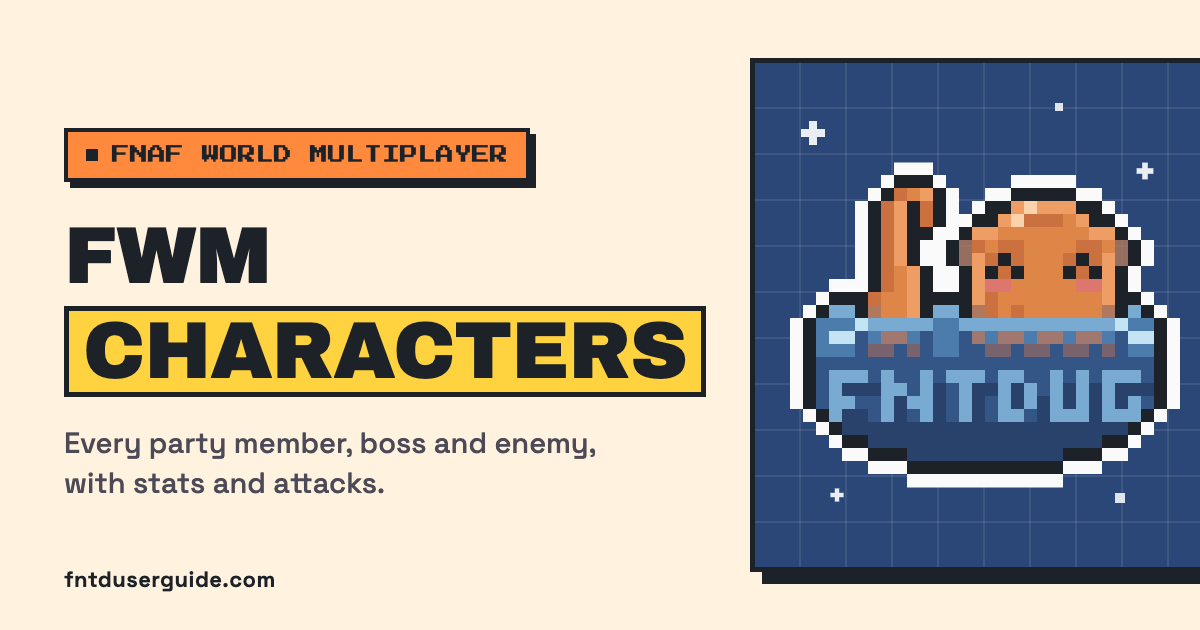
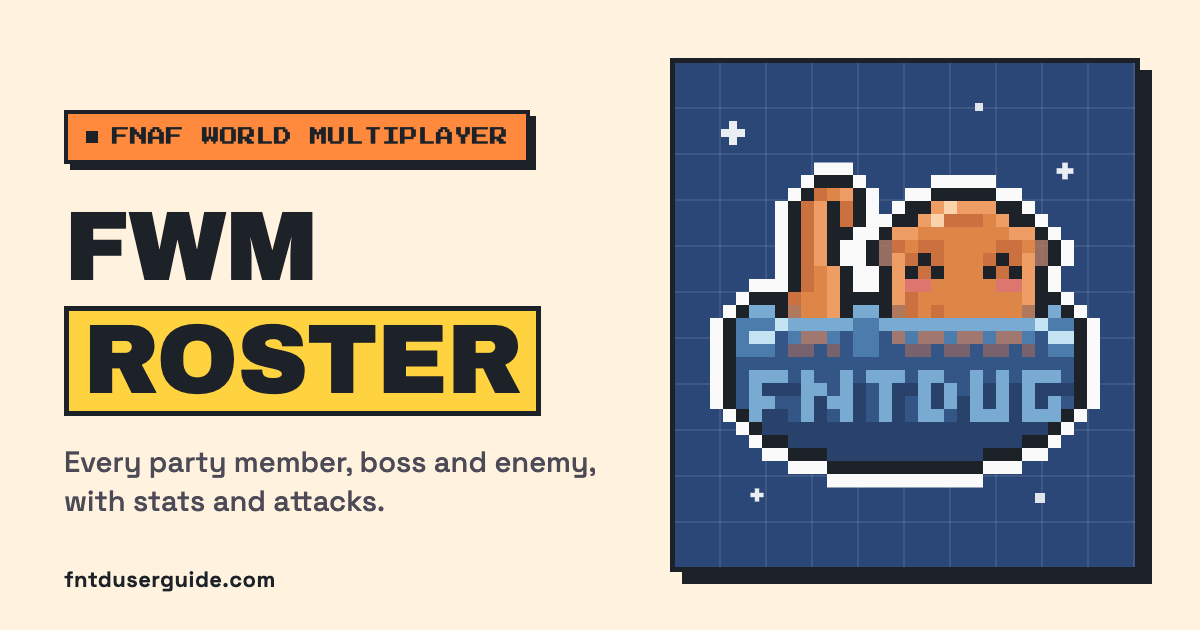
Rename the FWM page to Roster and give it an FWM header
Moves the page to /fwm/roster, renames it Roster in the nav, title, SEO
and share image, and adds FWM to the overhaul sections so its header tag
reads FNaF World Multiplayer like the other games. Bumps the share image
version so cached previews refresh.

diff --git a/fwm/roster.html b/fwm/roster.html
@@ -3,7 +3,7 @@
 <head>
   <meta charset="UTF-8">
   <meta name="viewport" content="width=device-width, initial-scale=1.0">
-  <title>FNaF World Multiplayer Characters | FNTD User Guide</title>
+  <title>FNaF World Multiplayer Roster | FNTD User Guide</title>
   <link rel="icon" type="image/png" href="https://primary.jwwb.nl/public/g/h/p/temp-xkzspsgvvlzquzykopjj/circle_done-high-hapj13.png?enable-io=true&enable=upscale&height=70">
   <link href="https://fonts.googleapis.com/css2?family=Press+Start+2P&family=Audiowide&display=swap" rel="stylesheet">
   <style>*,*::before,*::after{box-sizing:border-box;margin:0;padding:0;overflow-wrap:break-word;-webkit-font-smoothing:antialiased;-moz-osx-font-smoothing:grayscale}:root{--ug-accent:#ffa45b;--ug-purple:#681f62}html,body{min-height:100vh;background-color:#07060f;color:#fff;font-family:'Franklin Gothic Medium','Franklin Gothic','ITC Franklin Gothic',Arial,sans-serif;font-size:16px;scrollbar-width:thin;scrollbar-color:rgba(255,164,91,.4) transparent;-webkit-text-size-adjust:100%;text-size-adjust:100%;-webkit-font-smoothing:antialiased;-moz-osx-font-smoothing:grayscale}html{font-size:10px}body::-webkit-scrollbar{width:6px}body::-webkit-scrollbar-thumb{background:rgba(255,164,91,.4);border-radius:3px}#ug-main{min-height:100vh;display:flex;flex-direction:column;background-image:url('https://images.fntduserguide.com/952b91dc-d51b-434a-bee1-591d5d60126a.jpg');background-size:cover;background-attachment:fixed;background-position:center;background-color:#0a0c1e}#ug-header{position:relative;background:linear-gradient(180deg,#120326 0%,#3a0a38 30%,#681f62 55%,#3a0a38 78%,#120326 100%);flex-shrink:0;box-shadow:0 4px 28px rgba(104,31,98,.45)}#ug-header::before{content:'';position:absolute;inset:0;pointer-events:none;background:repeating-linear-gradient(to bottom,transparent 0px,transparent 3px,rgba(0,0,0,.07) 3px,rgba(0,0,0,.07) 4px)}.ug-header-inner{position:relative;z-index:1;text-align:center;display:flex;flex-direction:column;align-items:center;gap:12px;padding:30px 20px 22px}.ug-header-logo{width:68px;height:68px;object-fit:contain;filter:drop-shadow(0 0 12px rgba(255,164,91,.6))}.ug-header-title{font-family:'Audiowide',sans-serif;font-size:28px;color:#fff;text-shadow:0 0 12px rgba(255,164,91,.55),0 0 30px rgba(104,31,98,.4);letter-spacing:2px}#ug-topnav{position:sticky;top:0;z-index:1000}.ug-tn-inner{max-width:1100px;margin:0 auto;display:flex;align-items:stretch;justify-content:center;padding:0 12px;overflow-x:auto;-webkit-overflow-scrolling:touch;scrollbar-width:none;flex-wrap:wrap}.ug-tn-inner::-webkit-scrollbar{display:none}.ug-tn-link{display:flex;align-items:center;padding:14px 17px;color:rgba(255,255,255,.65);font-size:13px;font-family:'Audiowide',sans-serif;text-decoration:none;white-space:nowrap;transition:color .15s,background .15s}.ug-tn-link:hover{color:var(--ug-accent);background:rgba(255,164,91,.07)}.ug-tn-link.active{color:var(--ug-accent)}.ug-tn-drop a.active::after,.ug-tn-link.active::after,.ug-mn-child.active::after,.ug-mn-link.active::after{content:"|";margin-left:4px;color:var(--ug-accent);font-weight:400}body.ug-cursor-off .ug-tn-drop a.active::after,body.ug-cursor-off .ug-tn-link.active::after,body.ug-cursor-off .ug-mn-child.active::after,body.ug-cursor-off .ug-mn-link.active::after{opacity:0}.ug-tn-item{position:relative;display:flex;align-items:stretch}.ug-tn-btn{display:flex;align-items:center;gap:5px;padding:14px 17px;color:rgba(255,255,255,.65);font-size:13px;background:none;border:none;font-family:'Audiowide',sans-serif;cursor:pointer;white-space:nowrap;transition:color .15s,background .15s}.ug-tn-btn:hover,.ug-tn-item.open>.ug-tn-btn{color:var(--ug-accent);background:rgba(255,164,91,.07)}.ug-tn-arrow{display:inline-block;font-size:13px;font-family:monospace,Arial;font-style:normal;opacity:.55;transition:opacity .12s,color .12s;min-width:.8em;text-align:center}.ug-tn-item.open .ug-tn-arrow{opacity:1;color:var(--ug-accent)}.ug-tn-drop{display:none;position:fixed;width:max-content;min-width:185px;background:rgba(7,4,18,.97);border:1px solid rgba(255,164,91,.2);border-top:2px solid var(--ug-accent);border-radius:0 0 8px 8px;box-shadow:0 10px 30px rgba(0,0,0,.8);z-index:9999}.ug-tn-drop a{display:block;padding:11px 18px;color:rgba(255,255,255,.6);font-size:12px;text-decoration:none;border-bottom:1px solid rgba(255,164,91,.07);font-family:'Audiowide',sans-serif;transition:background .11s,color .11s}.ug-tn-drop a:last-child{border-bottom:none}.ug-tn-drop a:hover{background:rgba(255,255,255,.06);color:#fff}.ug-tn-drop a.active{background:rgba(255,164,91,.08);color:var(--ug-accent)}#ug-hamburger{display:none;position:fixed;top:11px;right:12px;z-index:1200;background:linear-gradient(135deg,rgba(58,10,56,.95),rgba(18,3,38,.95));border:1px solid rgba(255,164,91,.45);border-radius:22px;padding:7px 13px 7px 10px;cursor:pointer;color:rgba(255,255,255,.9);font-family:'Audiowide',sans-serif;font-size:10px;letter-spacing:.4px;align-items:center;gap:6px;transition:background .15s,border-color .15s,box-shadow .15s;box-shadow:0 2px 14px rgba(0,0,0,.6),0 0 0 1px rgba(104,31,98,.3);backdrop-filter:blur(8px);-webkit-backdrop-filter:blur(8px)}#ug-hamburger .hmb-icon{font-size:16px;line-height:1}#ug-overlay{display:none;position:fixed;inset:0;background:rgba(0,0,0,.62);z-index:1099;backdrop-filter:blur(3px);-webkit-backdrop-filter:blur(3px)}#ug-overlay.open{display:block}#ug-mobile-nav{position:fixed;top:0;right:0;width:min(290px,88vw);height:100vh;background:linear-gradient(180deg,#0d0120 0%,#070110 100%);border-left:1px solid rgba(255,164,91,.12);z-index:1100;overflow-y:auto;transform:translateX(100%);transition:transform .3s cubic-bezier(.4,0,.2,1);display:flex;flex-direction:column;box-shadow:-6px 0 40px rgba(0,0,0,.9);scrollbar-width:thin;scrollbar-color:rgba(255,164,91,.2) transparent}#ug-mobile-nav::-webkit-scrollbar{width:3px}#ug-mobile-nav::-webkit-scrollbar-thumb{background:rgba(255,164,91,.25);border-radius:2px}#ug-mobile-nav.open{transform:translateX(0)}.ug-mn-header{display:flex;align-items:center;justify-content:space-between;padding:14px 14px 13px;background:linear-gradient(180deg,#120326 0%,#3a0a38 65%,#1c0430 100%);border-bottom:1px solid rgba(255,164,91,.22);flex-shrink:0}.ug-mn-brand{display:flex;align-items:center;gap:10px}.ug-mn-brand-logo{width:30px;height:30px;object-fit:contain;filter:drop-shadow(0 0 6px rgba(255,164,91,.45))}.ug-mn-brand-name{font-family:'Audiowide',sans-serif;font-size:12px;color:#fff;line-height:1.2}.ug-mn-close{background:rgba(255,255,255,.06);border:1px solid rgba(255,255,255,.1);border-radius:50%;width:28px;height:28px;display:flex;align-items:center;justify-content:center;color:rgba(255,255,255,.5);font-size:14px;cursor:pointer;flex-shrink:0;line-height:1;transition:background .13s,color .13s,border-color .13s}.ug-mn-close:hover{background:rgba(255,164,91,.12);color:var(--ug-accent);border-color:rgba(255,164,91,.35)}.ug-mn-body{flex:1;padding:6px 0 12px}.ug-mn-link{display:flex;align-items:center;padding:12px 18px;color:rgba(255,255,255,.7);font-family:'Audiowide',sans-serif;font-size:10.5px;letter-spacing:.3px;text-decoration:none;border-bottom:1px solid rgba(255,255,255,.05);transition:background .12s,color .12s}.ug-mn-link:hover{background:rgba(255,164,91,.06);color:var(--ug-accent)}.ug-mn-link.active{color:var(--ug-accent)}.ug-mn-section{border-bottom:1px solid rgba(255,255,255,.05)}.ug-mn-section-btn{display:flex;align-items:center;justify-content:space-between;width:100%;padding:11px 18px;background:none;border:none;color:rgba(255,164,91,.85);font-family:'Audiowide',sans-serif;font-size:9.5px;letter-spacing:1.2px;text-transform:uppercase;cursor:pointer;text-align:left;transition:background .12s,color .12s}.ug-mn-section-arrow{opacity:.55;font-size:13px;flex-shrink:0;font-family:monospace,Arial;font-style:normal;min-width:.8em;text-align:center;transition:opacity .12s,color .12s}.ug-mn-section.open .ug-mn-section-btn .ug-mn-section-arrow{opacity:1;color:var(--ug-accent)}.ug-mn-section-items{max-height:0;overflow:hidden;transition:max-height .28s ease;background:rgba(0,0,0,.22)}.ug-mn-section.open .ug-mn-section-items{max-height:600px}.ug-mn-child{display:block;padding:9px 18px 9px 28px;color:rgba(255,255,255,.5);font-family:'Audiowide',sans-serif;font-size:10px;letter-spacing:.2px;text-decoration:none;border-bottom:1px solid rgba(255,255,255,.03);transition:background .11s,color .11s}.ug-mn-child:last-child{border-bottom:none}.ug-mn-child:hover{background:rgba(255,164,91,.05);color:#fff}.ug-mn-child.active{color:var(--ug-accent);background:rgba(255,164,91,.07);border-left:2px solid var(--ug-accent);padding-left:26px}.ug-mn-discord-wrap{padding:14px 14px 4px}.ug-mn-discord{display:flex;align-items:center;gap:9px;padding:11px 14px;background:rgba(88,101,242,.11);border:1px solid rgba(88,101,242,.28);border-radius:9px;color:#a5aaff;font-family:'Audiowide',sans-serif;font-size:10.5px;text-decoration:none;letter-spacing:.3px;transition:background .13s,border-color .13s,color .13s}.ug-mn-discord:hover{background:rgba(88,101,242,.22);border-color:rgba(88,101,242,.55);color:#bdc1ff}#ug-hero{position:relative;background-image:url('https://images.fntduserguide.com/starry1.webp');background-size:cover;background-attachment:fixed;background-position:center top}#ug-hero::before{content:'';position:absolute;inset:0;pointer-events:none;background:rgba(0,0,0,.48)}#ug-hero-inner{position:relative;z-index:1;padding:24px 18px 22px;max-width:860px;width:100%;margin:0 auto}#ug-content{flex:1;padding:22px 18px 50px;max-width:860px;width:100%;margin:0 auto}.ug-page-title-area{text-align:center;margin-bottom:18px}.ug-page-title{font-family:'Audiowide',sans-serif;font-size:32px;color:#fff;text-shadow:0 0 8px rgba(255,164,91,.35);margin-bottom:10px;text-decoration:underline;text-underline-offset:6px}.ug-status-badge{display:inline-block;padding:6px 18px;border-radius:20px;background:rgba(35,105,35,.85);border:1px solid rgba(80,190,80,.45);color:#86f786;font-size:10px;font-family:'Press Start 2P',cursive;margin-bottom:12px}.ug-page-desc{font-size:17px;color:#fff;line-height:1.75;margin-bottom:6px;text-align:center}.ug-note{font-size:16px;color:#fff;line-height:1.75;margin-bottom:16px}#ug-content img{max-width:100%;height:auto;display:block;margin:0 auto 16px}.clean-pill{display:inline-block;padding:14px;text-shadow:0 0 6px rgba(255,107,107,0.6);border-radius:20px;background:rgba(34,34,34,0.85);position:relative;overflow:hidden;border:2px solid #5a1a1a;color:#ff6b6b;font-size:14px;font-family:'Audiowide',sans-serif;cursor:pointer;user-select:none;text-align:center;box-shadow:inset 0 2px 4px rgba(255,255,255,0.08),inset 0 -4px 8px rgba(0,0,0,0.6),0 8px 0 #000,0 10px 20px rgba(0,0,0,0.5);transition:all 0.15s ease;animation:flicker 2s infinite}.clean-pill.on{border-color:#4dff88;color:#8cffb0}.clean-pill:hover{transform:translateY(2px)}.clean-pill::after{content:'';position:absolute;inset:0;border-radius:inherit;background:repeating-linear-gradient(to bottom,rgba(255,255,255,0.05) 0px,rgba(255,255,255,0.05) 1px,transparent 2px,transparent 4px);pointer-events:none;opacity:0.3}.clean-text{margin-top:14px;font-family:'Press Start 2P',cursive;font-size:10px;color:#fff;text-align:center;line-height:1.6;opacity:0.85}@keyframes flicker{0%{opacity:1}50%{opacity:0.95}100%{opacity:1}}.ad-slot{text-align:center}@media(max-width:768px){#ug-hamburger{display:flex}#ug-topnav{display:none}.ug-header-title{font-size:20px}.ug-header-logo{width:52px;height:52px}}@media(max-width:480px){.ug-page-title{font-size:22px}.ug-header-title{font-size:17px;letter-spacing:1px}}#tradeApp button{font-family:'Press Start 2P',cursive}#ug-content{max-width:1320px!important;}@media(max-width:600px){#ug-content{padding:22px 12px 50px!important;}}#ug-hamburger{z-index:2147483647!important;}#ug-overlay{z-index:2147483645!important;}#ug-mobile-nav{z-index:2147483646!important;}</style>
@@ -22,7 +22,7 @@
     </header>
     <div id="ug-hero"><div id="ug-hero-inner">
       <div class="ug-page-title-area">
-        <div class="ug-page-title">FWM Characters</div>
+        <div class="ug-page-title">FWM Roster</div>
         <div class="ug-status-badge" data-gh-file="fnafworld.json" data-gh-repo="FNTDUG/characters.json">(Up-To-Date!)</div>
         <p class="ug-page-desc" style="margin-top:8px">Every character in FNaF World Multiplayer on Roblox: all 48 party members, plus every boss, enemy and NPC. Tap one to see their stats, attacks and the world they come from.</p>
       </div>

diff --git a/_worker.js b/_worker.js
@@ -44,7 +44,7 @@ const MOBILE_NAV_BODY = `
 <div class="ug-mn-section">
   <button class="ug-mn-section-btn" onclick="ugMnToggle(this)">FWM <span class="ug-mn-section-arrow">/</span></button>
   <div class="ug-mn-section-items">
-    <a href="/fwm/characters"            class="ug-mn-child" data-nav-href="/fwm/characters">Characters</a>
+    <a href="/fwm/roster"                class="ug-mn-child" data-nav-href="/fwm/roster">Roster</a>
   </div>
 </div>
 <div class="ug-mn-section">
@@ -104,7 +104,7 @@ const DESKTOP_NAV_INNER = `
 <div class="ug-tn-item">
   <button class="ug-tn-btn" onclick="ugTnToggle(this)">FWM <span class="ug-tn-arrow">/</span></button>
   <div class="ug-tn-drop">
-    <a href="/fwm/characters"            data-nav-href="/fwm/characters">Characters</a>
+    <a href="/fwm/roster"                data-nav-href="/fwm/roster">Roster</a>
   </div>
 </div>
 <div class="ug-tn-item">
@@ -3615,8 +3615,8 @@ async function pushSend(request, env) {
 
 const SITE_URL = 'https://www.fntduserguide.com';
 const SITE_NAME = 'FNTD User Guide';
-const SEO_OG_V = 1;
-const SEO_OG_ALT = { home: 'FNTD User Guide: many guides, one hub', fntd1: 'FNTD1 Guide on the FNTD User Guide', fntd2: 'FNTD2 Guide on the FNTD User Guide', 'fntd2-codes': 'FNTD2 Codes on the FNTD User Guide', bbn: 'BBN Guide on the FNTD User Guide', 'bbn-codes': 'BBN Codes on the FNTD User Guide', fwm: 'FWM Characters on the FNTD User Guide' };
+const SEO_OG_V = 2;
+const SEO_OG_ALT = { home: 'FNTD User Guide: many guides, one hub', fntd1: 'FNTD1 Guide on the FNTD User Guide', fntd2: 'FNTD2 Guide on the FNTD User Guide', 'fntd2-codes': 'FNTD2 Codes on the FNTD User Guide', bbn: 'BBN Guide on the FNTD User Guide', 'bbn-codes': 'BBN Codes on the FNTD User Guide', fwm: 'FWM Roster on the FNTD User Guide' };
 function seoOgName(p) {
   if (p === '/fntd2/codes' || p === '/bbn/codes') return p.split('/')[1] + '-codes';
   if (p === '/patch-notes') return 'fntd2';
@@ -3632,7 +3632,7 @@ const SEO_SECTIONS = {
   fntd1: { name: 'Five Nights TD', path: '/fntd1/' },
   fntd2: { name: 'Five Nights TD 2', path: '/fntd2/fntd2-directory' },
   bbn: { name: 'Bite By Night', path: '/bbn/bite-by-night-directory' },
-  fwm: { name: 'FNaF World Multiplayer', path: '/fwm/characters' },
+  fwm: { name: 'FNaF World Multiplayer', path: '/fwm/roster' },
   'patch-notes': { name: 'Patch Notes', path: '/patch-notes' }
 };
 const SEO_PAGES = {
@@ -3671,7 +3671,7 @@ const SEO_PAGES = {
   '/bbn/survivor-terminal': ['Bite By Night Survivor Terminal: Survivor Stats', 'A Bite By Night (Roblox) survivor wiki styled as a retro terminal: Fighter, Security Guard, Customer and Technician stats, training, voice lines and skins.'],
   '/patch-notes/bbn-patch-notes': ['Bite By Night Guide Patch Notes | FNTD User Guide', 'Changelog for the Bite By Night pages of the FNTD User Guide: tier list, map and Terminal updates, newest first.'],
   '/wiki': ['Community Wiki | FNTD User Guide', 'Wiki pages for Five Nights TD 2, Five Nights TD and Bite By Night, written by the community and built block by block.'],
-  '/fwm/characters': ['FNaF World Multiplayer Characters (FWM) on Roblox', 'Every FNaF World Multiplayer character on Roblox: all 48 party members with health, attacks and how to unlock them, plus every boss, enemy and NPC.'],
+  '/fwm/roster': ['FWM Roster: Every FNaF World Multiplayer Character', 'Every FNaF World Multiplayer character on Roblox: all 48 party members with health, attacks and how to unlock them, plus every boss, enemy and NPC.'],
   '/sponsor': ['Sponsor the FNTD User Guide | Reach Roblox Players', 'Sponsor the FNTD User Guide to put your Roblox game or product in front of Five Nights TD 2, Five Nights TD and Bite By Night players.'],
   '/privacy-policy': ['Privacy Policy | FNTD User Guide', 'How the FNTD User Guide handles your data: what is collected when you visit, how it is used, and who it is shared with.']
 };
@@ -4318,10 +4318,10 @@ async function seoLoadFwm() {
 }
 function seoFwmHtml(d) {
   if (!d || !Array.isArray(d.party)) return '';
-  const link = c => '<a href="/fwm/characters#' + encodeURIComponent(c.id || String(c.name).toLowerCase().replace(/[^a-z0-9]+/g, '-').replace(/^-|-$/g, '')) + '">' + seoEsc(c.name) + '</a>';
+  const link = c => '<a href="/fwm/roster#' + encodeURIComponent(c.id || String(c.name).toLowerCase().replace(/[^a-z0-9]+/g, '-').replace(/^-|-$/g, '')) + '">' + seoEsc(c.name) + '</a>';
   const val = v => v == null || v === '' ? '?' : seoEsc(typeof v === 'number' ? seoNum(v) : v);
   const pair = o => o ? val(o.normal) + ' / ' + val(o.hard) : '?';
-  const out = ['<h2>FNaF World Multiplayer characters</h2><p>' + d.party.length + ' party members, ' + (d.bosses || []).length + ' bosses, ' + (d.enemies || []).length + ' enemies and ' + (d.npcs || []).length + ' NPCs in FNaF World Multiplayer on Roblox.</p>'];
+  const out = ['<h2>FNaF World Multiplayer roster</h2><p>' + d.party.length + ' party members, ' + (d.bosses || []).length + ' bosses, ' + (d.enemies || []).length + ' enemies and ' + (d.npcs || []).length + ' NPCs in FNaF World Multiplayer on Roblox.</p>'];
   out.push('<h3>Party members</h3><div class="ug-seo-wrap"><table><thead><tr><th>Character</th><th>World</th><th>Health</th><th>Attacks</th><th>How to get</th></tr></thead><tbody>' +
     d.party.filter(c => c && c.name).map(c => '<tr><td>' + link(c) + '</td><td>' + seoEsc(c.world || '') + '</td><td>' + val(c.health) + '</td><td>' + seoEsc((c.attacks || []).join(', ')) + '</td><td>' + seoEsc(c.unlock || '') + '</td></tr>').join('') +
     '</tbody></table></div>');
@@ -4334,12 +4334,12 @@ function seoFwmHtml(d) {
   });
   const npcs = (d.npcs || []).filter(c => c && c.name);
   if (npcs.length) out.push('<h3>NPCs</h3><ul>' + npcs.map(c => '<li>' + link(c) + (c.about ? ': ' + seoEsc(c.about) : '') + '</li>').join('') + '</ul>');
-  return seoBlock('FNaF World Multiplayer characters as text', out.join(''));
+  return seoBlock('FNaF World Multiplayer roster as text', out.join(''));
 }
 
 async function seoSsr(realPath, pageSrc) {
   const p = seoPath(realPath);
-  if (p === '/fwm/characters') {
+  if (p === '/fwm/roster') {
     const d = await seoTimed(seoLoadFwm(), 2500);
     let html = '';
     try { html = seoFwmHtml(d); } catch (e) { html = ''; }
@@ -4418,7 +4418,7 @@ const SITEMAP_DATA = {
   '/fntd2/unit-engine': ['json', 'Unit-Engine'],
   '/fntd2/trade-calculator': ['trade-calculator', 'json'],
   '/patch-notes': ['patchnotesfntd2.html'],
-  '/fwm/characters': ['fnafworld.json']
+  '/fwm/roster': ['fnafworld.json']
 };
 const SITEMAP_SEED = {
   'a:/': '2026-10-14T03:09:51Z', 'a:/overhaul/': '2026-10-15T19:44:48Z', 'a:/fntd2/fntd2-directory': '2026-10-14T20:39:46Z', 'a:/fntd2/fntd2-index': '2026-09-20T00:07:03Z',

diff --git a/overhaul/ov.js b/overhaul/ov.js
@@ -23,9 +23,9 @@
     document.head.appendChild(l);
   });
 
-  var SECTIONS = { fntd2: 'Five Nights TD 2', fntd1: 'Five Nights TD', bbn: 'Bite By Night', 'patch-notes': 'Patch notes', wiki: 'Community wiki', '404': 'Error 404' };
+  var SECTIONS = { fntd2: 'Five Nights TD 2', fntd1: 'Five Nights TD', bbn: 'Bite By Night', fwm: 'FNaF World Multiplayer', 'patch-notes': 'Patch notes', wiki: 'Community wiki', '404': 'Error 404' };
   var title = '';
-  var PREFIX = { fntd1: /^FNTD ?1\s+/i, fntd2: /^FNTD ?2\s+/i, bbn: /^(BBN|Bite By Night)\s+/i };
+  var PREFIX = { fntd1: /^FNTD ?1\s+/i, fntd2: /^FNTD ?2\s+/i, bbn: /^(BBN|Bite By Night)\s+/i, fwm: /^(FWM|FNaF World Multiplayer)\s+/i };
   function esc(v) { return String(v).replace(/[&<>"]/g, function (c) { return { '&': '&amp;', '<': '&lt;', '>': '&gt;', '"': '&quot;' }[c]; }); }
   function gameKey() {
     var q = /[?&]game=([a-z0-9-]+)/.exec(location.search);

diff --git a/overhaul/index.html b/overhaul/index.html
@@ -516,7 +516,7 @@ html.talk-on,html.talk-on body{overflow:hidden}
                 <span class="go">Play on Roblox <span class="arrow" aria-hidden="true">&nearr;</span></span>
               </div>
             </a>
-            <a class="game blk reveal" href="/fwm/characters">
+            <a class="game blk reveal" href="/fwm/roster">
               <div class="game-top"><img src="/game-thumb/10743048214" alt="" width="512" height="512" loading="lazy"><div class="gc-shade"></div><div class="gc-title gc-title--xs"><span>FNaF World Multiplayer</span></div></div>
               <div class="game-body">
                 <p>Every FWM character, with their stats, attacks and where to find them.</p>
